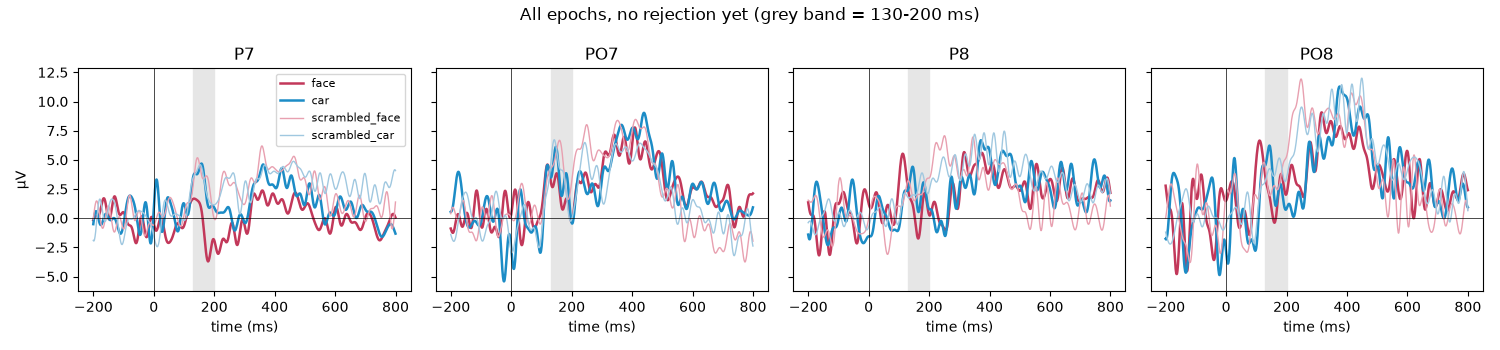
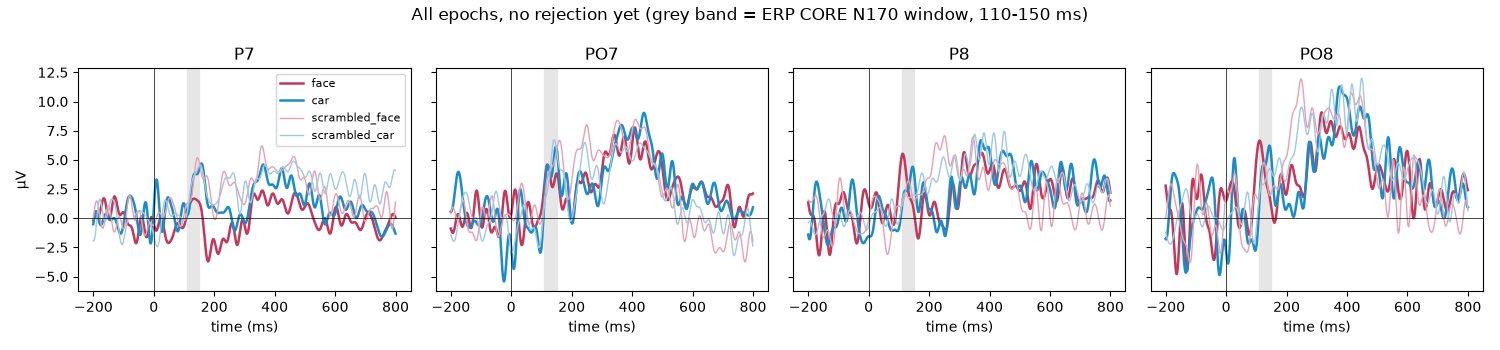
Step 2: use the ERP CORE N170 window (110-150 ms) instead of 130-200 ms

diff --git a/step2_preprocess.py b/step2_preprocess.py
@@ -29,6 +29,9 @@ ELEC_FILE = RAW_FILE.with_name('sub-001_task-N170_electrodes.tsv')
 # Head outline for topomaps: the dataset's electrodes sit on an 85 mm sphere
 # centred at the origin, so electrodes at z = 0 (FP1/FP2, O1/O2) fall on it
 SPHERE = (0, 0, 0, 0.085)
+# N170 measurement window used by ERP CORE (Kappenman et al., 2021), fixed in
+# advance rather than chosen from this subject's data
+N170_WIN = (0.110, 0.150)
 
 EOG_CHANNELS = ['HEOG_left', 'HEOG_right', 'VEOG_lower']
 BAD_CHANNELS = ['Oz']  # intermittent jumps up to ~1700 µV, low-frequency only
@@ -192,14 +195,19 @@ for ch in ['FP1', 'FP2']:
     b = blink_before.copy().pick(ch).data[0] * 1e6
     a = blink_after.copy().pick(ch).data[0] * 1e6
     print(f'  {ch} blink peak-to-peak: before {np.ptp(b):.1f} µV, after {np.ptp(a):.1f} µV')
-win = (erps['faces', 'before'].times >= 0.13) & (erps['faces', 'before'].times <= 0.2)
+t_erp = erps['faces', 'before'].times
+win = (t_erp >= N170_WIN[0]) & (t_erp <= N170_WIN[1])
 for ch in ['P7', 'P8', 'PO7', 'PO8']:
     vals = []
     for cond in ['faces', 'cars']:
         b = erps[cond, 'before'].copy().pick(ch).data[0] * 1e6
         a = erps[cond, 'after'].copy().pick(ch).data[0] * 1e6
-        vals.append(f'{cond} min {b[win].min():.2f} -> {a[win].min():.2f} µV '
+        vals.append(f'{cond} mean {b[win].mean():.2f} -> {a[win].mean():.2f} µV '
                     f'(r={np.corrcoef(b, a)[0, 1]:.3f})')
+    diff = {when: (erps['faces', when].copy().pick(ch).data[0]
+                   - erps['cars', when].copy().pick(ch).data[0])[win].mean() * 1e6
+            for when in ['before', 'after']}
+    vals.append(f'face-car {diff["before"]:.2f} -> {diff["after"]:.2f} µV')
     print(f'  {ch}: ' + '; '.join(vals))
 
 fig, axes = plt.subplots(1, 2, figsize=(11, 3.5), sharey=True)
@@ -299,12 +307,23 @@ for ax, ch in zip(axes, ['P7', 'PO7', 'P8', 'PO8']):
                 lw=1.8 if 'scrambled' not in name else 1, label=name)
     ax.axvline(0, color='k', lw=0.5)
     ax.axhline(0, color='k', lw=0.5)
-    ax.axvspan(130, 200, color='0.9', zorder=0)
+    ax.axvspan(N170_WIN[0] * 1000, N170_WIN[1] * 1000, color='0.9', zorder=0)
     ax.set_title(ch)
     ax.set_xlabel('time (ms)')
 axes[0].set_ylabel('µV')
 axes[0].legend(fontsize=8)
-fig.suptitle('All epochs, no rejection yet (grey band = 130-200 ms)')
+fig.suptitle('All epochs, no rejection yet '
+             '(grey band = ERP CORE N170 window, 110-150 ms)')
+
+# N170 face effect in the ERP CORE window, per category and face - car
+t = epochs.times
+win = (t >= N170_WIN[0]) & (t <= N170_WIN[1])
+print('Mean amplitude 110-150 ms (µV):')
+for ch in ['P7', 'PO7', 'P8', 'PO8']:
+    m = {name: epochs[name].average(picks=ch).data[0][win].mean() * 1e6
+         for _, _, name in CATEGORIES}
+    print(f'  {ch}: ' + ', '.join(f'{k} {v:.2f}' for k, v in m.items())
+          + f'; face-car {m["face"] - m["car"]:.2f}')
 fig.tight_layout()
 fig.savefig(FIGS / 'step2_epochs_erp_by_category.png', dpi=100)
 plt.close('all')

diff --git a/notes.md b/notes.md
@@ -67,7 +67,7 @@
 - ICA 不受影响：28 个成分，候选仍是 ICA000（VEOG +0.95）、ICA003（HEOG +0.80）；只重画了地形图
 
 ### 2.3.3b 去掉 ICA000、ICA003
-- 逐个看过 28 个成分后只去掉这两个；ICA010（P9/P10，151 ms，脸−车 −25.6）是 N170 成分，保留；肌电（001/007/008/009/020）和扰动（006/018 等）不动，留给 epoch 剔除
+- 逐个看过 28 个成分后只去掉这两个；ICA010（P9/P10，刺激反应 151 ms 达峰）是 N170 成分，保留；它的脸−车差异在 28 个成分里最大，但方向随窗口变：110–150 ms 为 +22.7、130–200 ms 为 −25.6（单位：刺激前波动的标准差；成分正负号本身没有意义），剔除后再看；肌电（001/007/008/009/020）和扰动（006/018 等）不动，留给 epoch 剔除
 - ica.exclude = [0, 3]，ica.apply 作用在 0.1–30 Hz 正式数据上 → data/step2_ica-raw.fif
 - 只改 29 个 ICA 通道；EOG 通道（含 HEOG/VEOG）保持校正前，Oz 不变（仍是坏导）
 - 眨眼（VEOG 检出 152 次）平均峰峰值：FP1 123.4 → 6.8 µV，FP2 138.5 → 9.8 µV（figs/step2_ica_blinks_before_after.png）
@@ -75,7 +75,8 @@
 - 与 HEOG 的相关：F7 0.23 → 0.06，F8 −0.33 → 0.08
 - 29 个 EEG 平均标准差 24.5 → 17.3 µV
 - N170 电极 ERP（全部 trial，未剔除）：−200~500 ms 校正前后 r = 0.97~0.997，平均差 0.3~0.4 µV；500~800 ms 差异较大（1.8~2.6 µV），是刺激后的眨眼被去掉了
-- 脸−车（130–200 ms）：P7 −3.74 → −3.60，P8 −1.32 → −1.83，PO7 −1.46 → −1.47，PO8 −0.82 → −1.20 µV（figs/step2_ica_erp_before_after.png）
+- 脸−车（ERP CORE 窗口 110–150 ms）：P7 −1.00 → −1.38，P8 +0.90 → +0.07，PO7 −0.29 → −0.83，PO8 −0.18 → −0.97 µV（figs/step2_ica_erp_before_after.png）
+- 注：一开始误用了自选的 130–200 ms，已统一改成 ERP CORE 的 110–150 ms（事先定好的窗口，不按本被试数据挑）
 
 ### 2.3.4 Oz 插值 + 30 通道平均参考
 - ICA 之后再插值：interpolate_bads(reset_bads=True, origin=(0, 0, 0))，球面样条，用其余 29 个电极
@@ -89,5 +90,6 @@
 - 保留 30 EEG + 5 EOG（EOG 是 ICA 前的，留给剔除用）；还没剔除任何 epoch
 - 每类 80 个；基线均值 max 2e−14 µV（= 0）
 - 输出：data/step2_epochs-epo.fif（43.8 MB）；图：figs/step2_epochs_erp_by_category.png
-- 130–200 ms 平均（µV）：P7 face −0.74 / car 2.83（差 −3.57，face 最低 −3.70 @ 179 ms）；P8 face 0.60 / car 2.40（差 −1.80）；PO7 差 −1.44；PO8 差 −1.17；四个电极都是 face 最负
+- 110–150 ms 平均（µV，ERP CORE 窗口）：P7 face 1.37 / car 2.67（差 −1.30）；PO7 3.58 / 4.33（差 −0.75）；P8 3.01 / 2.86（差 +0.15）；PO8 3.83 / 4.72（差 −0.89）
+- 本被试脸−车差异最负的时刻：P7 171 ms（−5.03），PO7 145 ms（−2.47），P8 149 ms（−3.42），PO8 146 ms（−4.51 µV），大多落在窗口末端，所以 110–150 ms 的平均值偏小；还没剔除，先不下结论
 - 给剔除做参考：每个 epoch 最大通道峰峰值 中位 119 / 90% 179 / 99% 280 / 最大 447 µV；VEOG 峰峰值 中位 97 / 90% 318 / 最大 543；HEOG 中位 42 / 90% 79 / 最大 175
